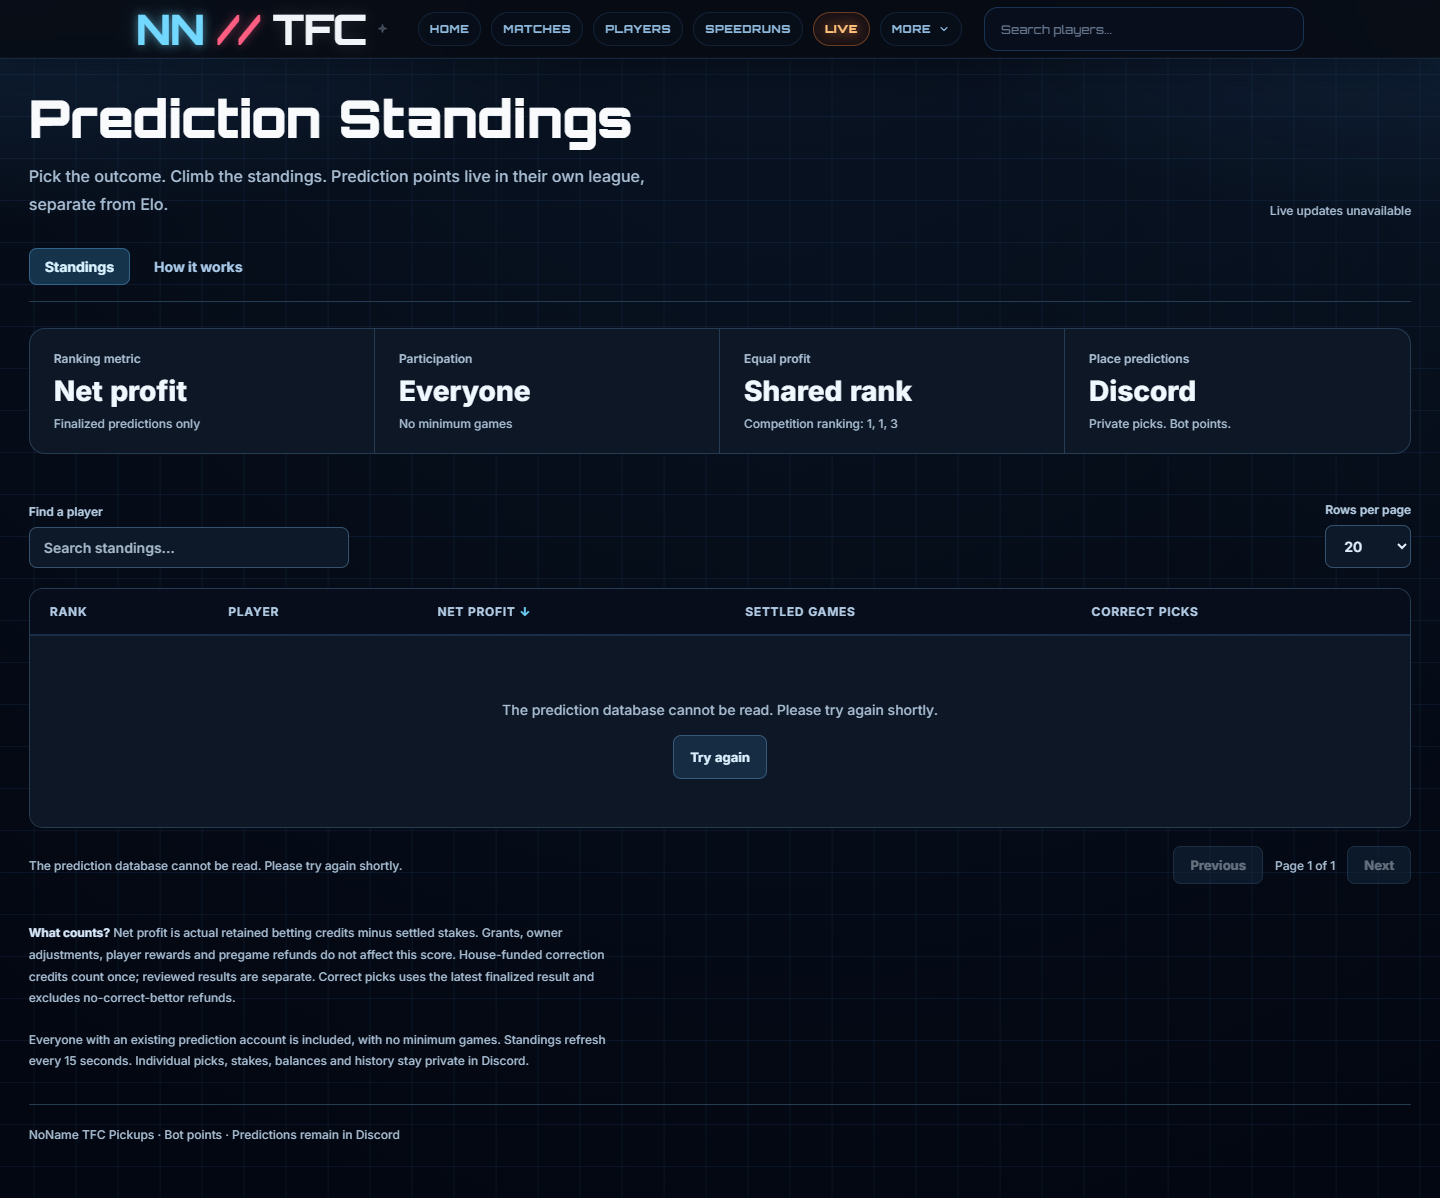
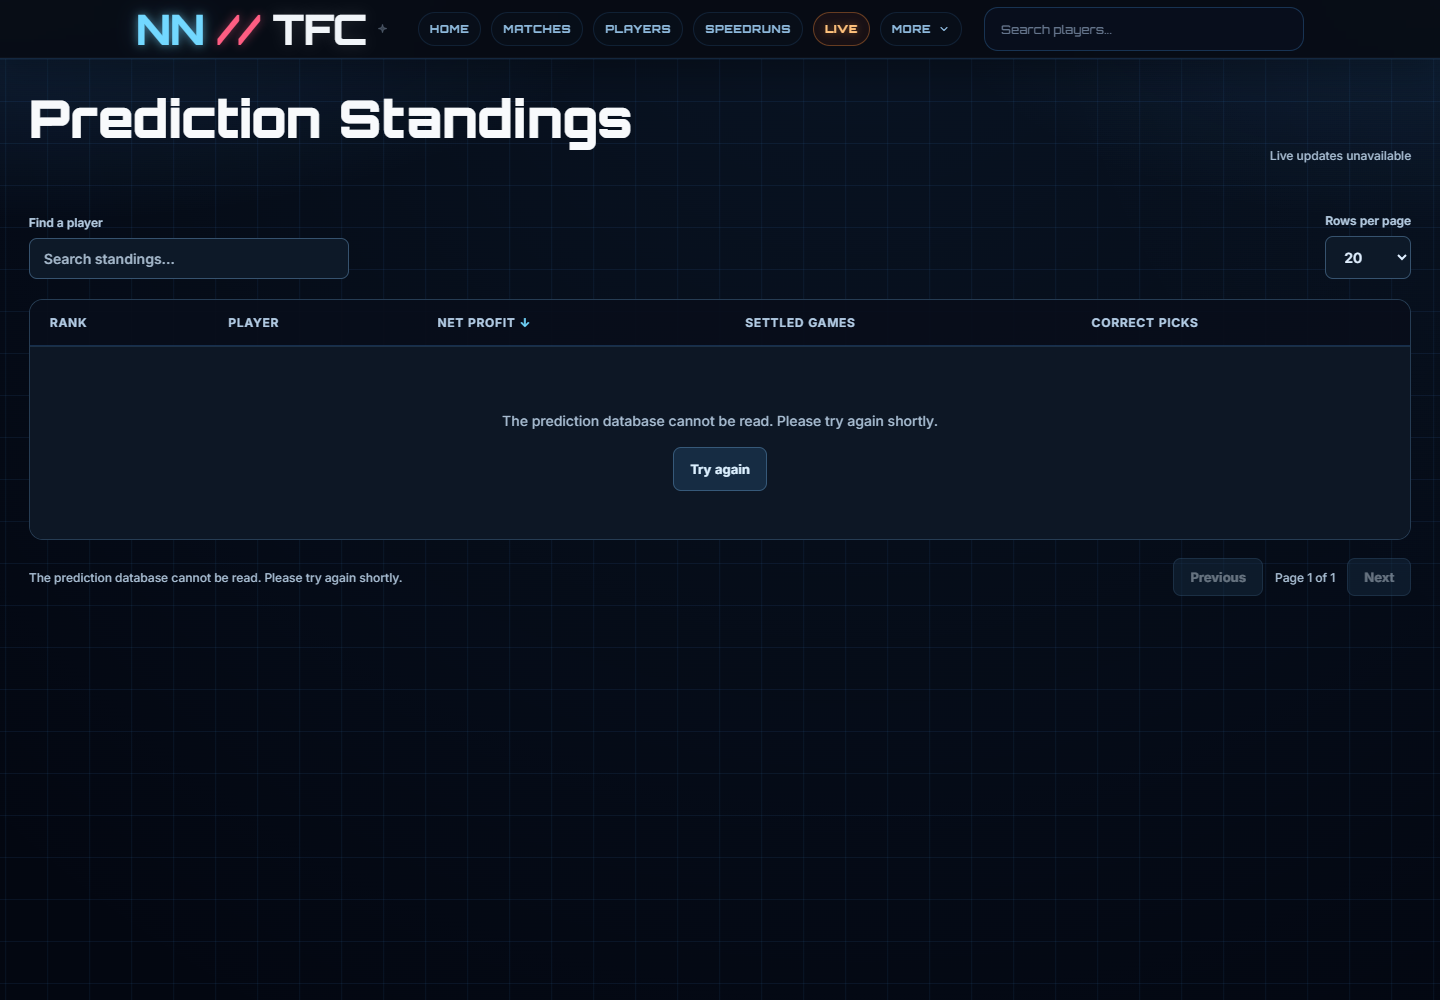
style: simplify prediction page to leaderboard only

diff --git a/predictions.html b/predictions.html
@@ -52,12 +52,10 @@
         class="site-search"
       >
     </div>
-  </header><main class="page-main-spacing max-w-[1500px] mx-auto px-8 py-10"><section class="prediction-shell"><div class="prediction-hero"><div><h1>Prediction Standings</h1><p>Pick the outcome. Climb the standings. Prediction points live in their own league, separate from Elo.</p></div><span class="prediction-updated" id="prediction-updated" role="status">Connecting to live standings…</span></div>
-<nav class="prediction-tabs" aria-label="Predictions"><a href="predictions.html" aria-current="page">Standings</a><a href="prediction-rules.html" >How it works</a></nav>
+  </header><main class="page-main-spacing max-w-[1500px] mx-auto px-8 py-10"><section class="prediction-shell"><div class="prediction-hero"><div><h1>Prediction Standings</h1></div><span class="prediction-updated" id="prediction-updated" role="status">Connecting to live standings…</span></div>
 <div class="prediction-alert" id="prediction-stale" hidden>Live updates are unavailable. Showing the last successful read; check the updated time.</div>
-<dl class="prediction-overview"><div><dt>Ranking metric</dt><dd>Net profit</dd><small>Finalized predictions only</small></div><div><dt>Participation</dt><dd>Everyone</dd><small>No minimum games</small></div><div><dt>Equal profit</dt><dd>Shared rank</dd><small>Competition ranking: 1, 1, 3</small></div><div><dt>Place predictions</dt><dd>Discord</dd><small>Private picks. Bot points.</small></div></dl>
 <div class="prediction-toolbar"><label for="prediction-search">Find a player<input id="prediction-search" type="search" placeholder="Search standings…" maxlength="100" autocomplete="off"></label><label for="prediction-size">Rows per page<select id="prediction-size"><option value="10">10</option><option value="20" selected>20</option><option value="50">50</option></select></label></div>
 <div class="prediction-table-wrap" role="region" aria-label="Prediction standings" tabindex="0"><table class="prediction-table" id="prediction-table" aria-busy="true"><caption class="sr-only">Live prediction standings. Activate a column heading to sort.</caption><thead><tr><th scope="col" aria-sort="none"><button type="button" data-sort="rank">Rank</button></th><th scope="col" aria-sort="none"><button type="button" data-sort="displayName">Player</button></th><th scope="col" aria-sort="descending"><button type="button" data-sort="netProfit">Net profit</button></th><th scope="col" aria-sort="none"><button type="button" data-sort="settledGames">Settled games</button></th><th scope="col" aria-sort="none"><button type="button" data-sort="winRate">Correct picks</button></th></tr></thead><tbody id="prediction-body"><tr><td colspan="5" class="prediction-state">Loading predictions…</td></tr></tbody></table></div>
 <div class="prediction-pager"><span id="prediction-count" role="status" aria-live="polite">Loading…</span><div><button class="prediction-button" id="prediction-prev" type="button" disabled>Previous</button><span id="prediction-page">Page 1 of 1</span><button class="prediction-button" id="prediction-next" type="button" disabled>Next</button></div></div>
-<p class="prediction-note"><strong>What counts?</strong> Net profit is actual retained betting credits minus settled stakes. Grants, owner adjustments, player rewards and pregame refunds do not affect this score. House-funded correction credits count once; reviewed results are separate. Correct picks uses the latest finalized result and excludes no-correct-bettor refunds.</p>
-<p class="prediction-note">Everyone with an existing prediction account is included, with no minimum games. Standings refresh every 15 seconds. Individual picks, stakes, balances and history stay private in Discord.</p><footer class="prediction-page-footer">NoName TFC Pickups · Bot points · Predictions remain in Discord</footer></section></main><noscript><p>Enable JavaScript to load prediction standings.</p></noscript></body></html>
+
+</section></main><noscript><p>Enable JavaScript to load prediction standings.</p></noscript></body></html>
